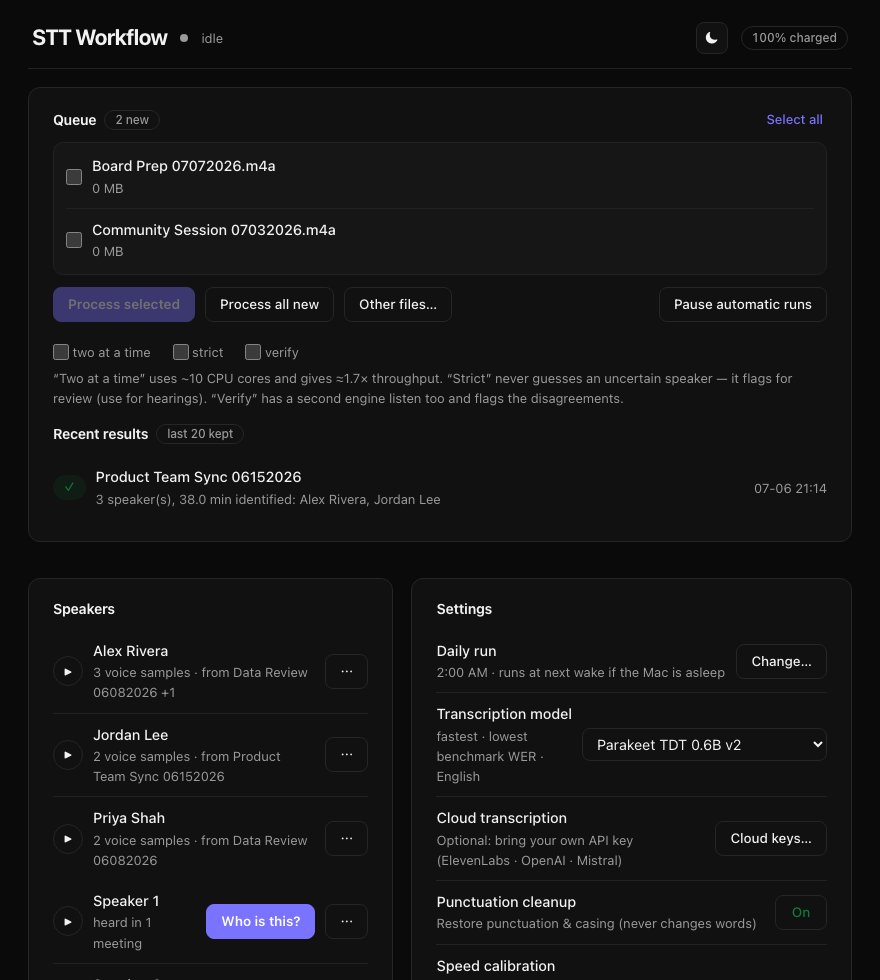
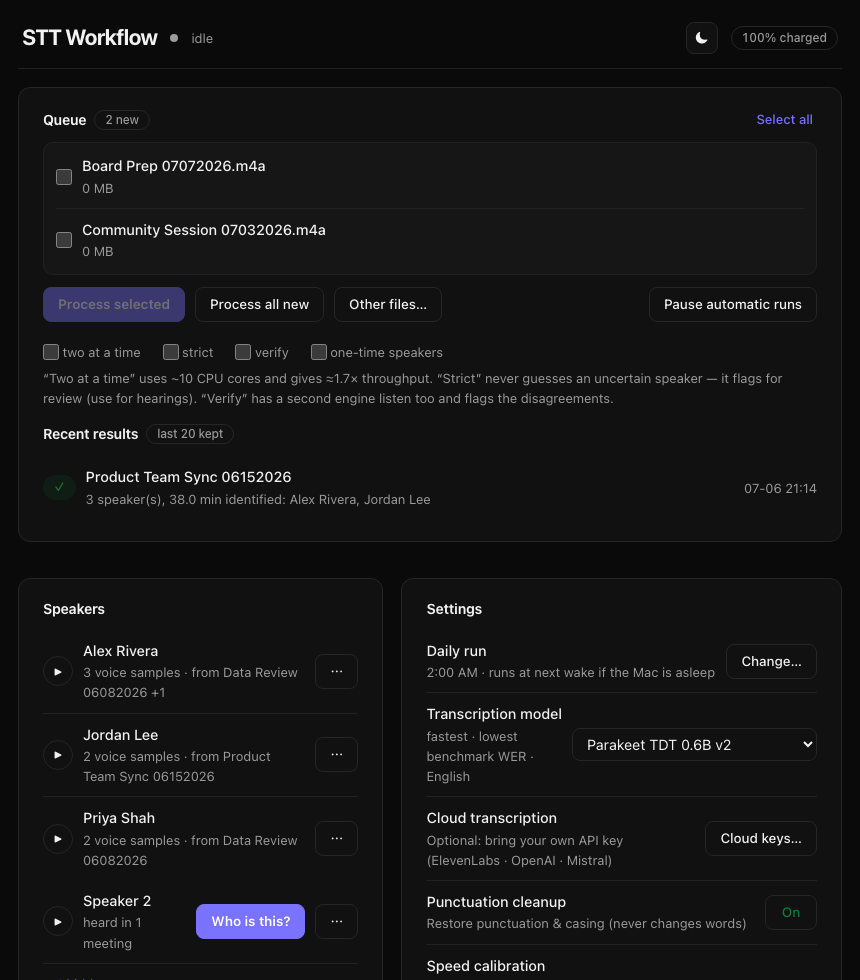
README: features reorganized by workflow step, full screenshot refresh
Five sections matching how the tool is actually used: managing the queue
(run options incl. one-time speakers, Redo dialog), reading/editing/
reviewing (viewer, split, review arrows, summary tooltip with committed
next steps, search, rename+date), speaker profiles (hidden voices, per-
sample management, recovery tooling), configuration (cloud keys, themes),
and exporting (meeting menu, on-disk layout).

Ten screenshots: five new surfaces never shown before (queue card, Redo
dialog, speaker actions, meeting/export menu, search hits, summary
tooltip) and refreshed captures for panels that gained UI since (run
options row, speakers list with the hidden toggle, review dialog with
navigation arrows). All headless from the synthetic demo.

diff --git a/README.md b/README.md
@@ -31,105 +31,144 @@ detects what is already done, so re-running it is always safe.
 Manual setup, and what each step does, is in [Setup details](#setup-details)
 below.
 
-## What it does
+## The workflow
 
-**Transcribe locally, at speed.** Two GPU-accelerated engines run on Apple's
-MLX framework, switchable in Settings: NVIDIA Parakeet TDT 0.6B v2 (~30×
-realtime, the English word-error-rate leader among local models) and Whisper
-large-v3 / turbo (strongest punctuation and noise robustness). Both produce
-word-level timestamps. Whisper's classic repetition loops ("now now now…")
-are blocked at the decoder, collapsed if they slip through, and flagged for
-review. A word-preserving punctuation restorer fixes Parakeet's lowercase
-run-ons without ever changing a word. Anything ffmpeg reads is accepted,
-video files included (the audio track is extracted).
+Everything below happens in the control panel (`http://127.0.0.1:8737`,
+local-only) or its menu-bar companion. The engine room: two GPU-accelerated
+transcription engines on Apple's MLX framework (NVIDIA Parakeet TDT 0.6B v2,
+~30× realtime and the English word-error-rate leader among local models, and
+Whisper large-v3/turbo for punctuation and noise robustness), pyannote
+diarization, and your own voiceprint library attaching real names. Anything
+ffmpeg reads is accepted, video included.
 
-**Name the speakers, once.** pyannote diarization separates the voices;
-voiceprints attach names. Name a speaker one time and every past and future
-transcript updates in seconds, because per-turn voice embeddings are cached
-and re-naming never reprocesses audio. Unknown voices keep stable numbers
-across meetings ("Speaker 2" is the same person everywhere). Matching is
-open-set with a score-plus-margin gate: a stranger near an enrolled voice
-never inherits that person's name, and interviews stay honest.
+### 1 · Managing the queue
 
-![Speaker library](docs/img/speakers.png)
+![Queue and run options](docs/img/queue.png)
 
-**Read, edit, repair.** The viewer color-codes speakers, plays audio from any
-line, and follows playback with a live highlight. Every line is editable:
-fix text, reassign the speaker (to anyone, including a person the diarizer
-never detected), add a line the pipeline missed, remove a bogus one, or
-**split** a line where two people got glued together. Reassigning a
-misattributed line auto-merges it with its now-matching neighbors, so one
-edit heals the whole turn. A "re-transcribe this span" button gets a second
-opinion from a different engine on any single line. Human edits live in a
-sidecar file and survive every relabel.
+Recordings land in the watched folder (iCloud Drive by default) and process
+nightly, within a minute of arriving while the Mac is awake, and at login
+catch-up. The queue card lets you process everything new, a hand-picked
+selection, or files from anywhere on disk ("Other files…"), with four
+per-run options:
+
+- **two at a time**: parallel workers, ≈1.7× throughput for a backlog
+- **strict**, for hearings and HR conversations: never guess an uncertain
+  speaker (flag it for review instead), and never send audio to any cloud
+  engine whatever the global settings say
+- **verify**: a second, architecturally different engine transcribes too;
+  every disagreement is flagged with both candidates (where the engines
+  agree, ~95% of words on our benchmark, they matched an independent
+  commercial reference ~94% of the time)
+- **one-time speakers**, for focus groups: unnamed voices are never added to
+  the speaker library and no voice samples are kept for them
+
+While a run is live you get per-stage progress with a time estimate
+calibrated to your machine's measured throughput, and a Stop button that
+kills the whole process group and verifies nothing is left. Runs are
+idempotent by manifest: the iCloud original is deleted only after outputs
+are verified, and a run interrupted mid-file simply re-runs that file next
+time. Reprocessing an existing meeting (Redo) offers the same options:
+
+![Reprocess dialog](docs/img/redo.png)
+
+### 2 · Reading, editing, and reviewing transcripts
 
 ![Transcript viewer](docs/img/viewer.png)
 
-Splitting a line where the diarizer glued two people together: each half
-gets its own speaker, and a reassigned half merges into its matching
-neighbor automatically.
+The viewer color-codes speakers, plays audio from any line, and follows
+playback with a live highlight. Every line is editable: fix text, reassign
+the speaker (to anyone, including a person the diarizer never detected),
+add a line the pipeline missed, remove a bogus one, or **split** a line
+where two people got glued together. A reassigned line auto-merges with its
+now-matching neighbors, so one edit heals the whole turn, and a
+"re-transcribe this span" button gets a second opinion from a different
+engine on any single line. Human edits live in a sidecar file and survive
+every reprocessing of speaker labels.
 
 ![Splitting a line between two speakers](docs/img/split.png)
 
-**Review what the pipeline wasn't sure about.** Uncertain segments are
-flagged and triaged: substantial items first, sub-second crosstalk crumbs
-bulk-acceptable in one click. Each review item cues its exact audio span.
-**Verify mode** runs a second, architecturally different engine over the
-same audio and flags every disagreement with both candidates shown. Where
-the engines agree (~95% of words on our benchmark), the words matched an
-independent commercial reference ~94% of the time, so only the disagreements
-need human ears. **Strict mode** (for hearings and HR conversations) never
-guesses an uncertain speaker and never sends audio to any cloud engine,
-whatever the global settings say.
+Uncertain segments are flagged and triaged: substantial items first,
+sub-second crosstalk crumbs bulk-acceptable in one click. Each review item
+cues its exact audio span, shows the second engine's candidate when verify
+mode ran, and the ‹ › arrows (or ←/→) flip through items without acting on
+them:
 
-![Reviewing a flagged segment with the second engine's candidate one click away](docs/img/review.png)
+![Review dialog](docs/img/review.png)
 
-**Summarize automatically, on-device.** At the end of every run, Qwen3-8B
-(4-bit, via MLX) drafts each new meeting's summary; it appears as the
-description line in the library, no clicks needed. The same model suggests
-proper titles ("Rename from content"), and renaming updates the meeting's
-folder and every file in it. Each meeting stores a date (parsed from the
-filename at process time, correctable in the Rename dialog) that drives the
-month grouping. File timestamps are not trusted, because they reflect when
-Voice Memos exported the file, often weeks after the meeting.
+At the end of every run, Qwen3-8B (4-bit, on-device) drafts each meeting's
+summary and extracts **Committed next steps**: every stated commitment as
+"[Speaker] will *action* by *date*". Both show in the Summary dialog and in
+the hover tooltip on any meeting row:
+
+![Summary tooltip with committed next steps](docs/img/tooltip.png)
+
+Full-text search jumps straight to the moment anything was said, audio
+cued; the same box filters the library by title or attendee:
+
+![Search across everything ever said](docs/img/search.png)
+
+Meeting titles and dates are editable in place (click either in the list)
+or via the Rename dialog, which also offers an LLM-suggested title from the
+transcript's content. Dates are stamped at processing time from the
+filename convention and survive reprocessing; file timestamps are never
+trusted, because they reflect when Voice Memos exported the file:
 
 ![Rename dialog with the meeting-date correction](docs/img/rename.png)
 
-![Transcript library with summaries](docs/img/transcripts.png)
+### 3 · Managing speaker profiles
 
-**Search everything ever said.** Full-text search across all transcripts
-jumps straight to the moment, audio cued. The library filters by title or
-attendee.
+![Speaker library with a hidden one-time voice](docs/img/speakers.png)
 
-**Bring your own cloud key, if you want.** Optional adapters for ElevenLabs
-Scribe, OpenAI, and Mistral Voxtral appear in the engine picker once you add
-a key (Settings → Cloud keys). Only the audio uploads, recompressed small;
-diarization, speaker naming, and voiceprints stay on-device, so cloud words
-still get local names. A cloud failure falls back to the local engine
-mid-run, and strict-mode recordings never upload. Keys are stored in
-`stt.env` (git-ignored, `chmod 600`) and never shown again.
+Name a speaker once ("Who is this?" plays their voice first) and every past
+and future transcript updates in seconds, because per-turn voice embeddings
+are cached, so re-labeling never reprocesses audio. Unknown voices keep stable
+numbers across meetings ("Speaker 2" is the same person everywhere), and
+matching is open-set with a score-plus-margin gate: a stranger near an
+enrolled voice never inherits that person's name, and interviews stay
+honest.
+
+The ⋯ menu on any speaker manages the profile: play and prune individual
+voice samples (each traceable to its source meeting), rename everywhere,
+merge duplicates, un-enroll, or **hide** a one-time voice. Hidden entries
+keep their samples (so their number stays theirs) and restore with one
+click from the "n hidden" toggle:
+
+![Speaker profile actions](docs/img/speaker-actions.png)
+
+If the registry is ever lost, `tools/rebuild_voiceprints.py` reconstructs
+every voiceprint from the meeting caches; the batch also warns loudly if it
+starts with an empty registry while named transcripts exist, and every
+registry write keeps a rolling backup.
+
+### 4 · Managing configuration
+
+Settings covers the transcription model (local engines, plus cloud ones
+once a key is added), the daily run time, watched and transcripts folders,
+punctuation cleanup, and a model-update check. Cloud transcription is
+bring-your-own-key for ElevenLabs Scribe, OpenAI, and Mistral Voxtral: only
+the audio uploads (recompressed small), diarization and voiceprints stay
+on-device so cloud words still get local names, a cloud failure falls back
+to the local engine mid-run, and strict-mode recordings never upload. Keys
+live in `stt.env` (git-ignored, `chmod 600`) and are never shown again:
 
 ![Cloud transcription keys](docs/img/cloud-keys.png)
 
-**Export.** Word (.docx), PDF, clipboard, or the underlying `.txt` and
-structured `.json` (segment- and word-level timestamps, speakers, flags,
-real confidence scores). Writes are atomic everywhere; a reader can never
-see a half-written transcript.
-
-**Run itself.** A menu-bar app shows queue, live stage, and ETA; the control
-panel lives at `http://127.0.0.1:8737` (local-only). Recordings process
-nightly, within a minute of landing in the watched folder while the Mac is
-awake, and at login catch-up, all under a single-instance lock, with a
-battery guard and `caffeinate` keeping long runs alive. Stopping a run kills
-the whole process group and verifies nothing is left. Time estimates
-calibrate themselves from your machine's measured throughput. Everything is
-idempotent by manifest: the iCloud original is deleted only after outputs
-are verified.
-
-**Light and dark.** The panel follows macOS by default; the toggle in the
-top bar pins light or dark, and the choice persists.
+The panel follows macOS light/dark by default; the toggle in the top bar
+pins either, and the choice persists:
 
 ![Dark mode](docs/img/panel-dark.png)
+
+### 5 · Exporting
+
+![Export and file actions](docs/img/meeting-menu.png)
+
+Each meeting exports to Word (.docx) or print-ready PDF, copies to the
+clipboard as plain text, or reveals in Finder. On disk, every meeting is a
+self-contained folder (audio, readable `.txt`, structured `.json` with
+segment- and word-level timestamps, speakers, flags, and real confidence
+scores, caches, and edit history together), and renaming in the panel
+renames the folder and every file in it. Writes are atomic everywhere; a
+reader can never see a half-written transcript.
 
 ## Requirements
 
